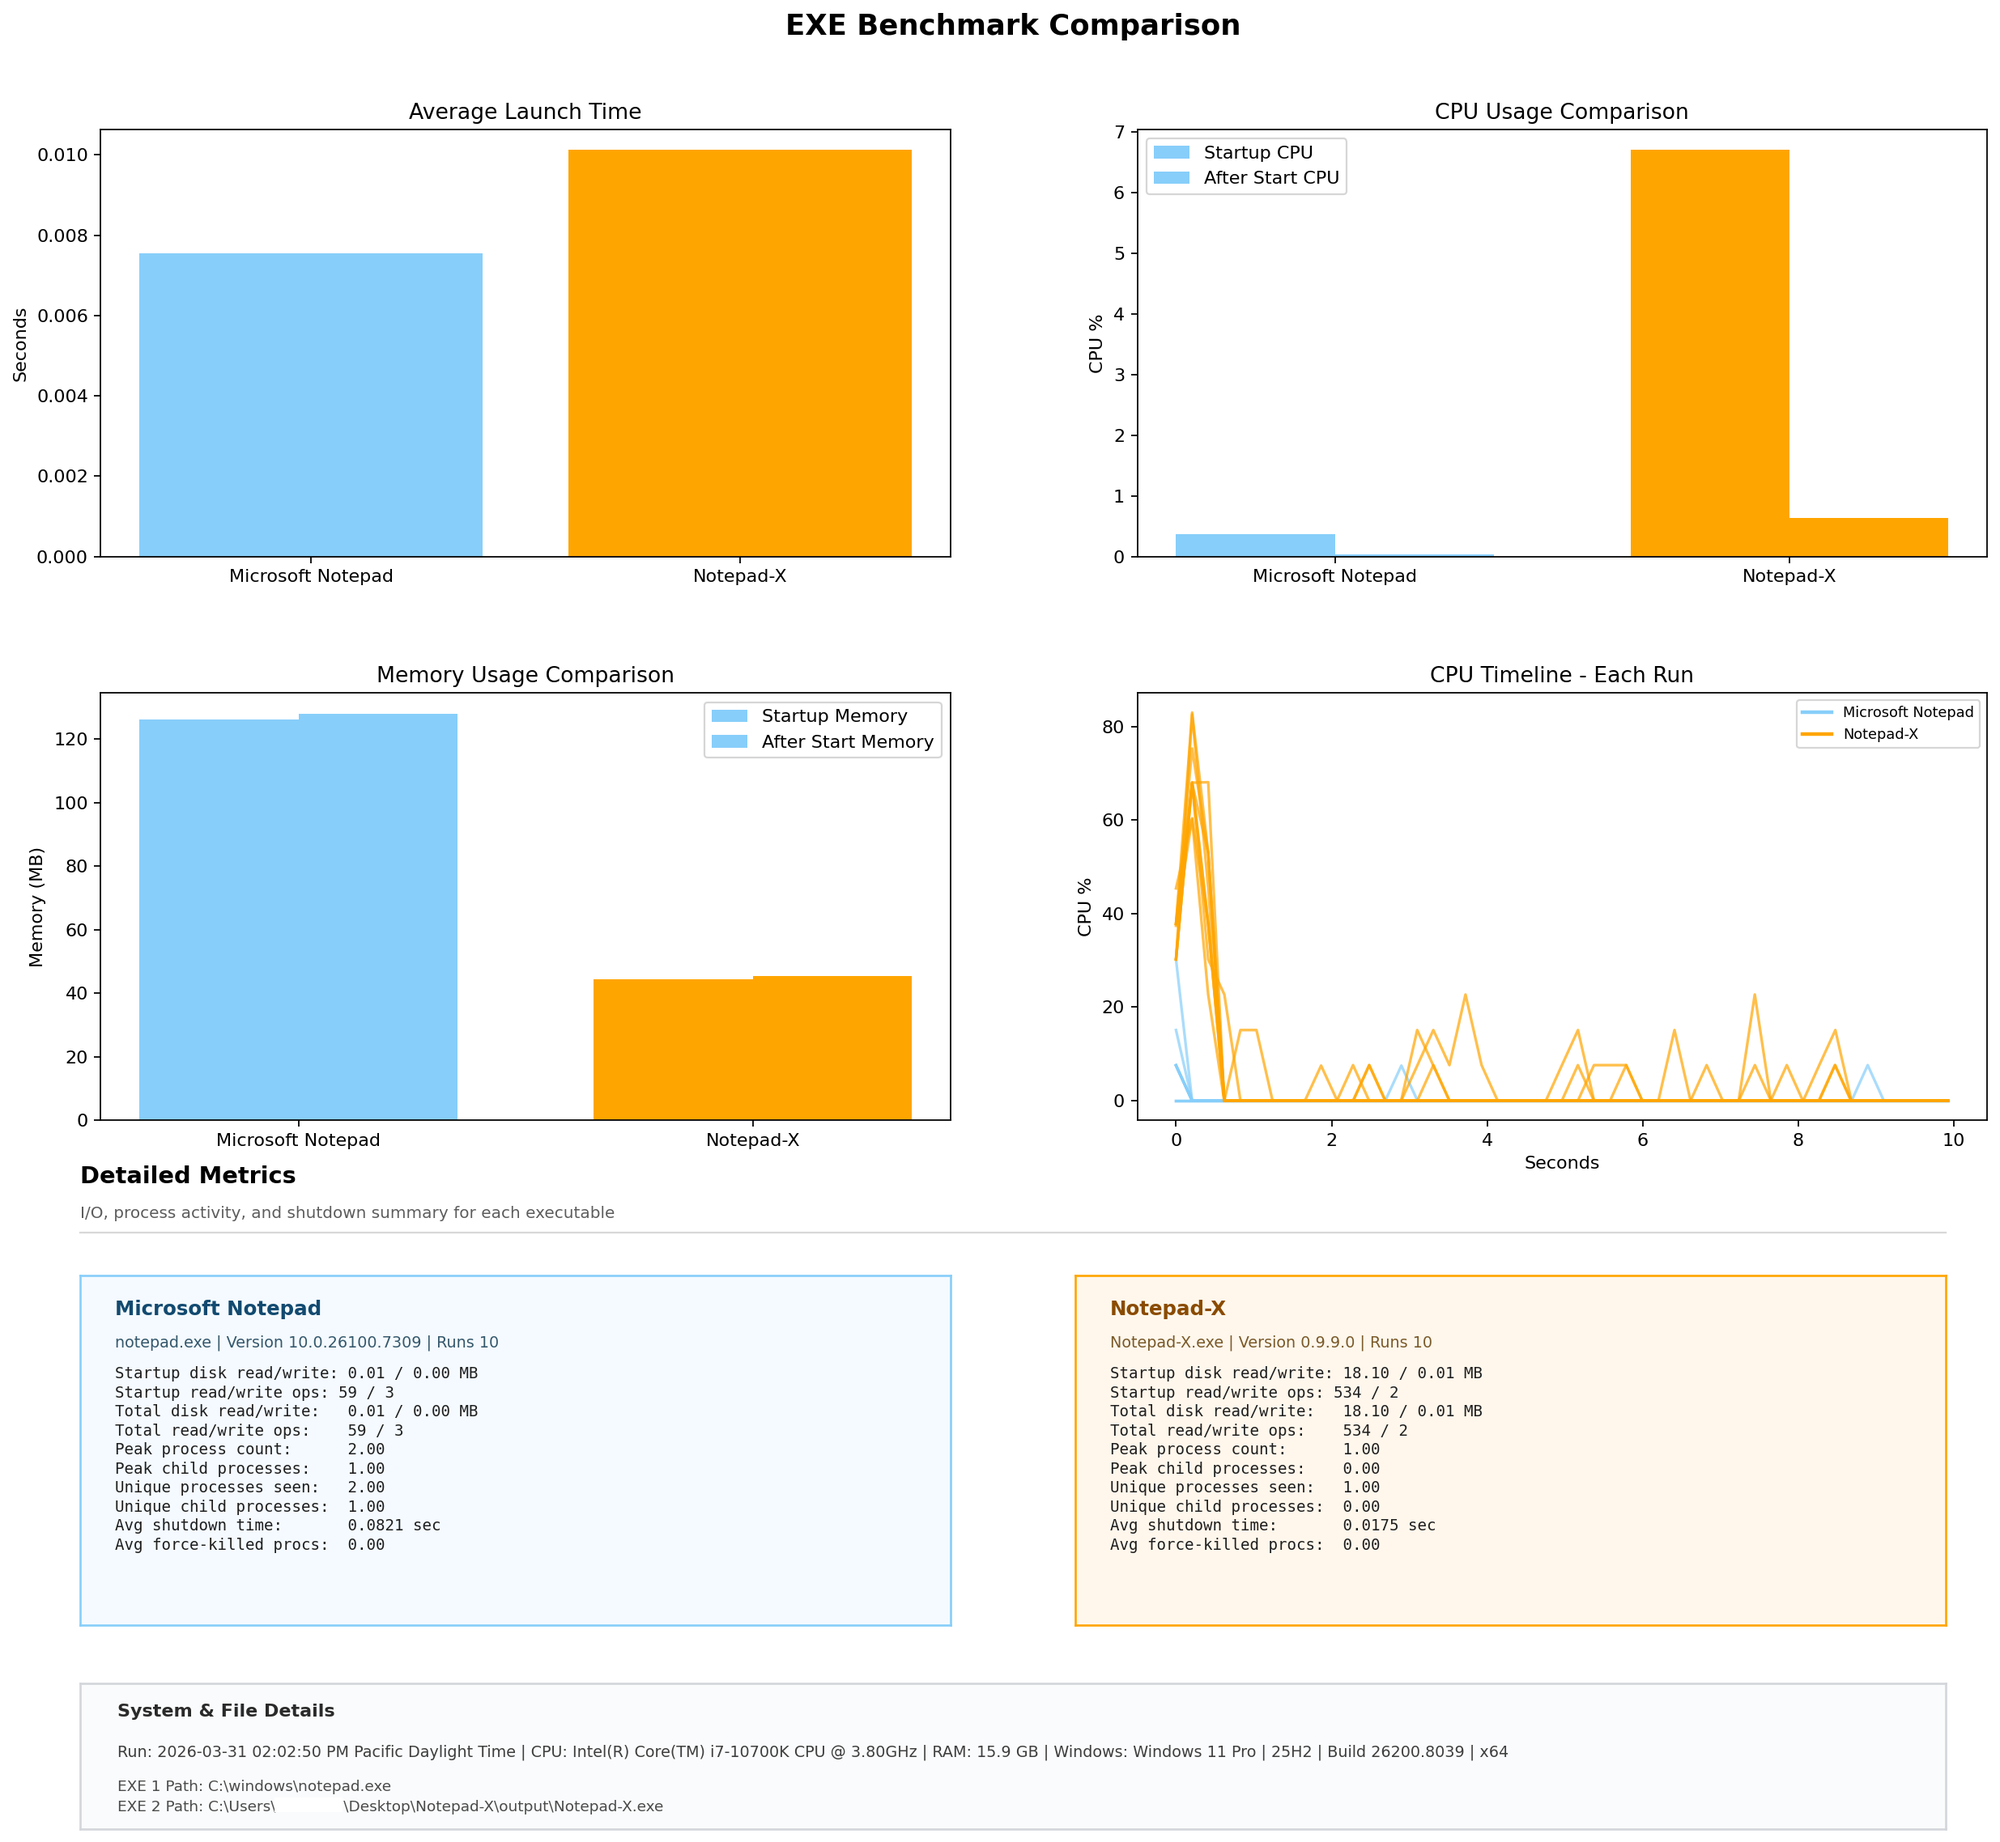
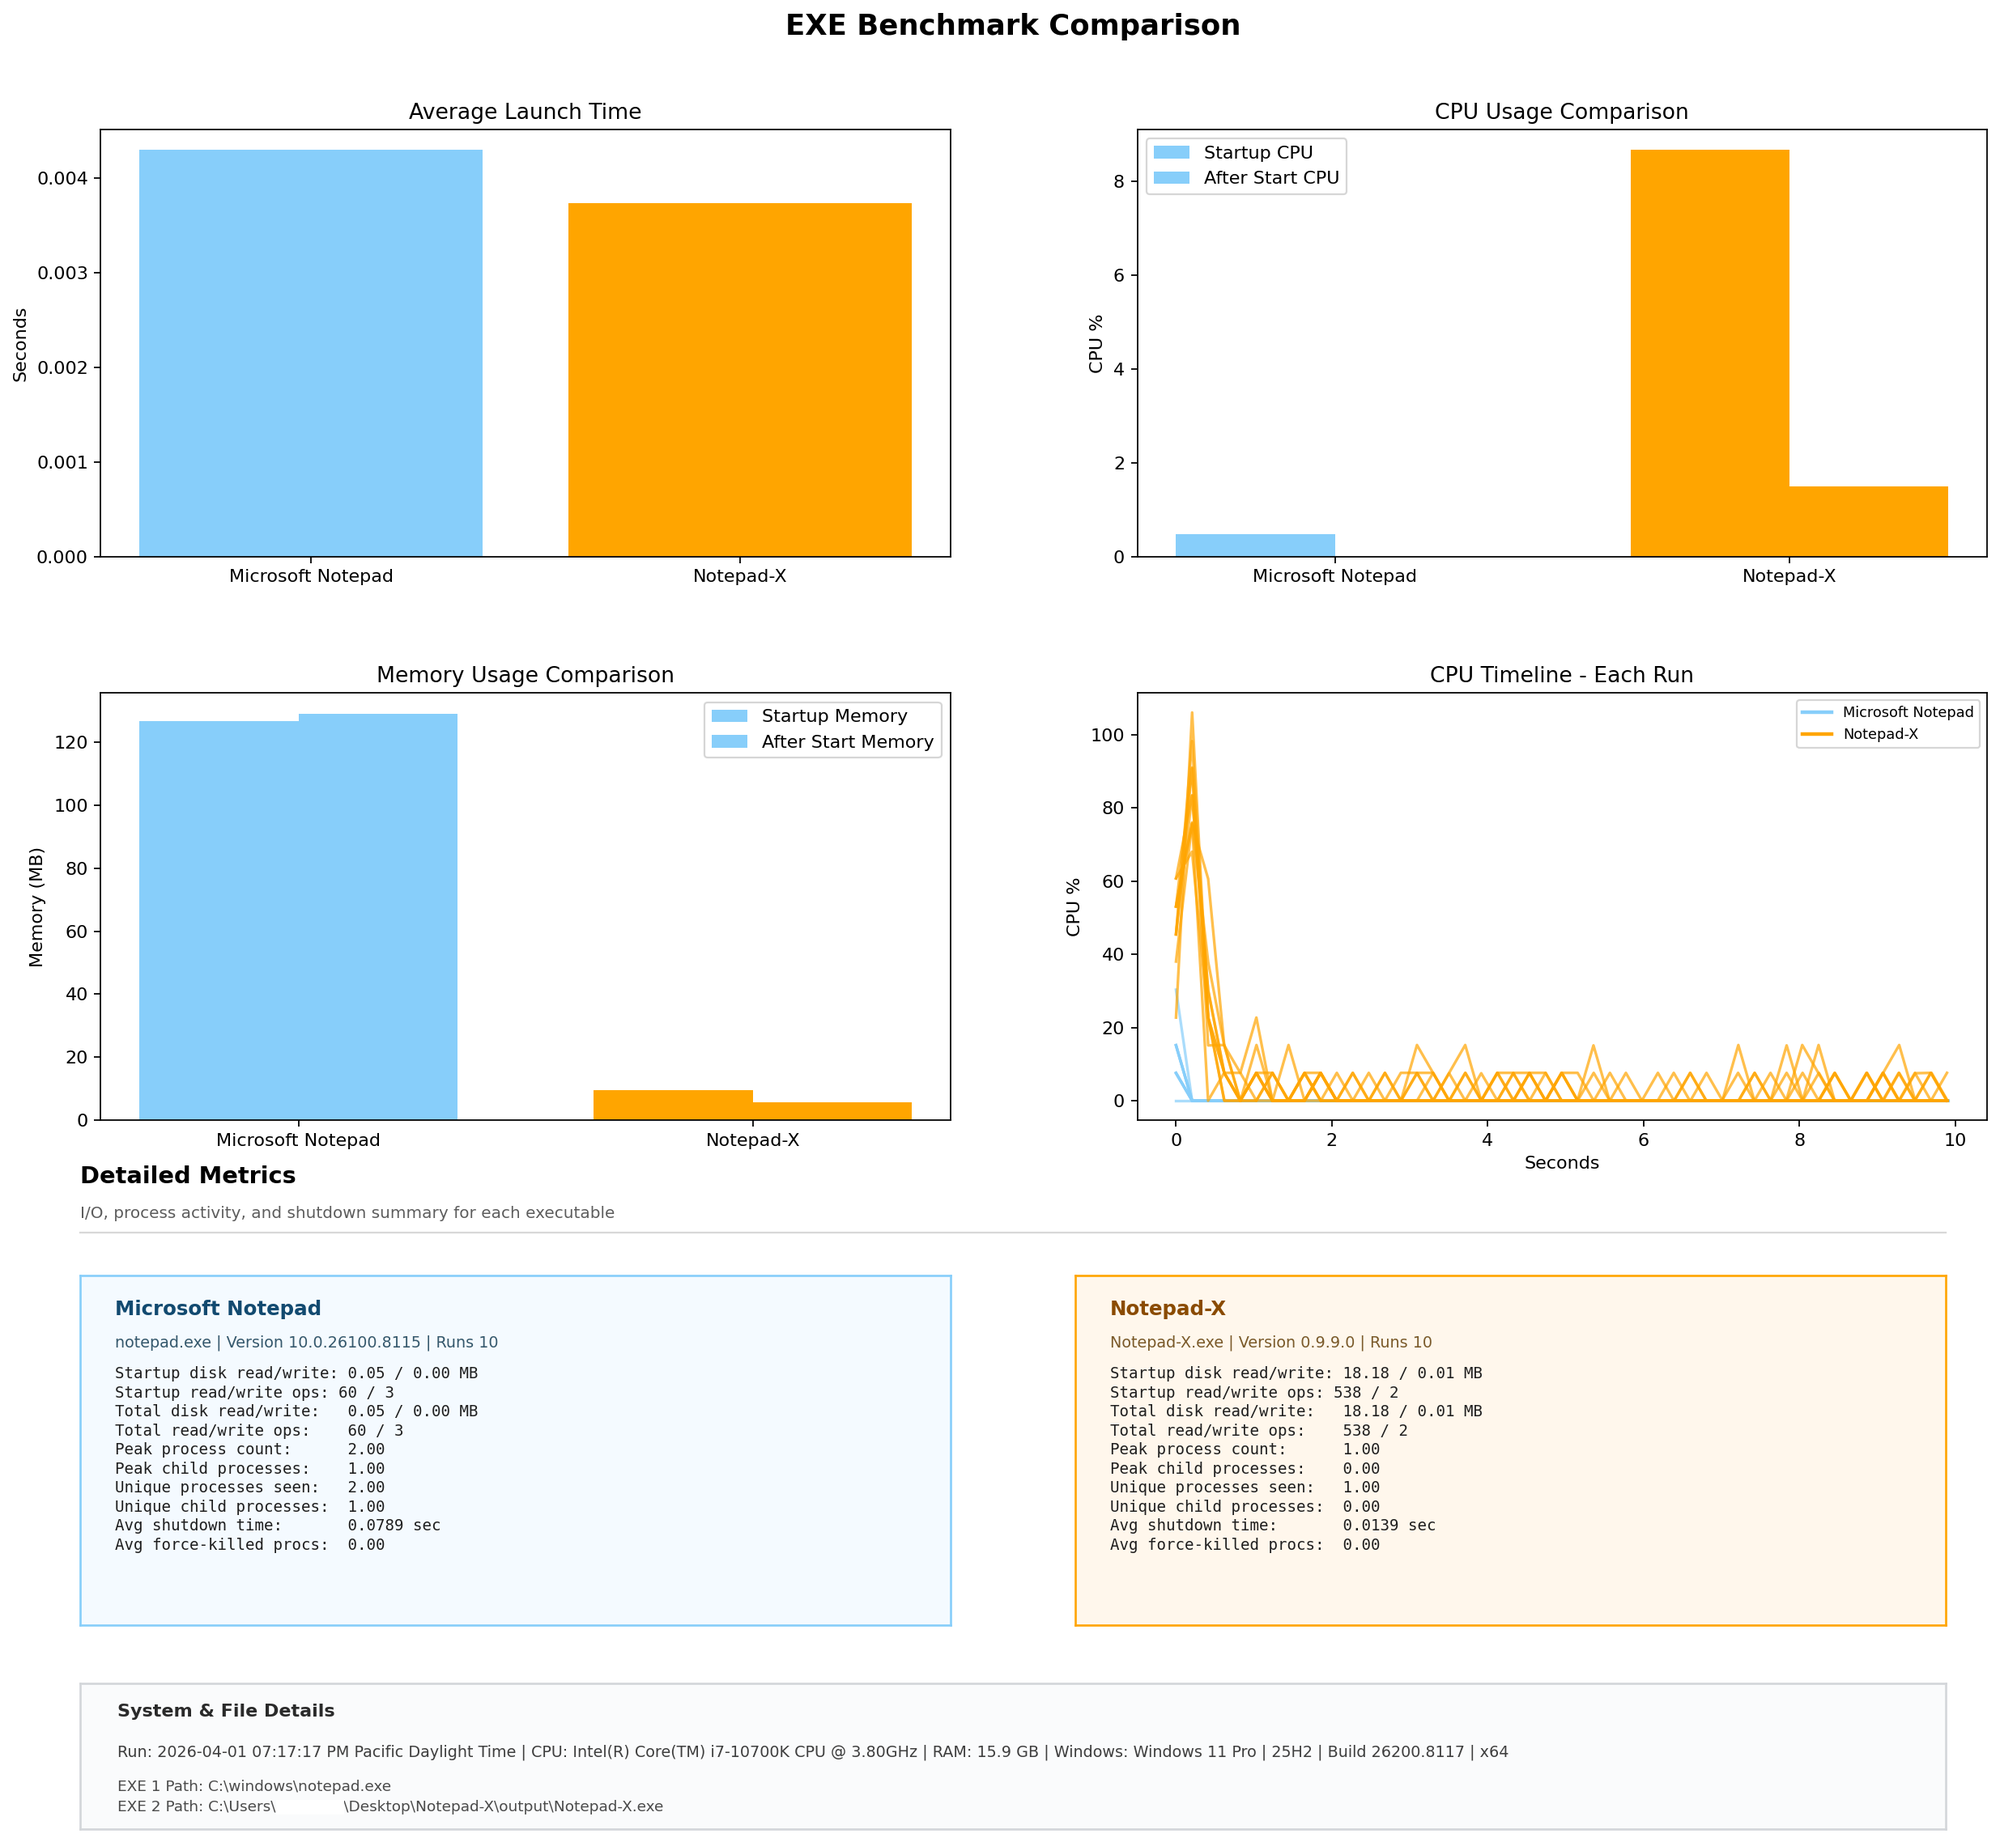
Refresh benchmark image and README

diff --git a/README.md b/README.md
@@ -8,7 +8,7 @@ It keeps a simple desktop-editor feel, but adds persistent sessions, live search
 
 ![EXE benchmark comparison](gfx/exe_benchmark.png)
 
-This benchmark is a point-in-time comparison between the packaged `Notepad-X 0.9.9` build and Microsoft Notepad. In this run, Microsoft Notepad launches faster at roughly `0.0076s` versus about `0.0100s` for Notepad-X and also shuts down quicker, but Notepad-X still stays far lighter on memory at about `44 MB` instead of roughly `127-128 MB`. The tradeoff is that Notepad-X hits a much larger startup CPU spike and far heavier launch-time disk I/O while it initializes. Exact results will still vary depending on hardware, OS state, background load, and what each editor has to initialize.
+This benchmark is a point-in-time comparison between the packaged `Notepad-X 0.9.9` build and Microsoft Notepad. In this run, Notepad-X comes out slightly ahead on average launch time at about `0.0037s` versus roughly `0.0043s` for Microsoft Notepad, stays dramatically lighter on memory at around `9 MB` at startup and about `5 MB` after settling instead of roughly `127-129 MB`, and also shuts down faster at about `0.0139s` versus `0.0789s`. The tradeoff is that Notepad-X still hits a much larger startup CPU spike and far heavier launch-time disk activity while it initializes, with about `18.18 MB` of startup reads and `538` read operations versus roughly `0.05 MB` and `60` reads for Microsoft Notepad. Exact results will still vary depending on hardware, OS state, background load, and what each editor has to initialize.
 
 ## Features
 
